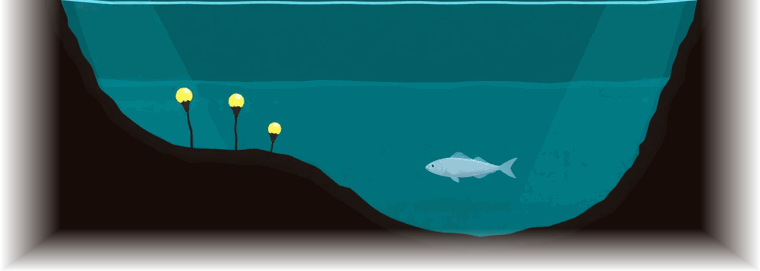
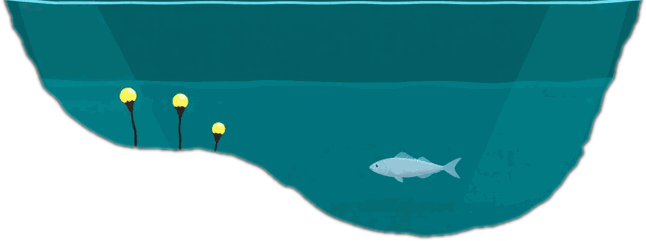
Matte lake art to the organic bowl edge (not a rectangular crop)
The lake sprites were a rectangular crop with a straight feathered bottom, so
the lake read as a box. Re-matte each lake by flood-filling the surrounding
earth from the borders and keeping everything it doesn't reach — so the bottom
and side edges follow the real bowl contour, and internal features (rocks,
shadows surrounded by water) are preserved. The earth around the bowl is
transparent, so it blends into the procedural earth in-game.

Also fold asset file sizes/mtimes into the build cache-bust hash, so changing
only the art (same filenames) still bumps __ASSET_VER and busts the CDN cache.

Claude-Session: https://claude.ai/code/session_01YCR2gkiAtGPrFY5YjFaZn2

diff --git a/dist/artifact.html b/dist/artifact.html
@@ -154,7 +154,7 @@
 <div id="ui"></div>
 <script>
 'use strict';
-window.__ASSET_VER = "70zys0";
+window.__ASSET_VER = "50vfen";
 // ===================== src/config.js =====================
 const __m_config = (function () {
 // =============================================================================

diff --git a/dist/index.html b/dist/index.html
@@ -160,7 +160,7 @@
 <div id="ui"></div>
 <script>
 'use strict';
-window.__ASSET_VER = "70zys0";
+window.__ASSET_VER = "50vfen";
 // ===================== src/config.js =====================
 const __m_config = (function () {
 // =============================================================================
